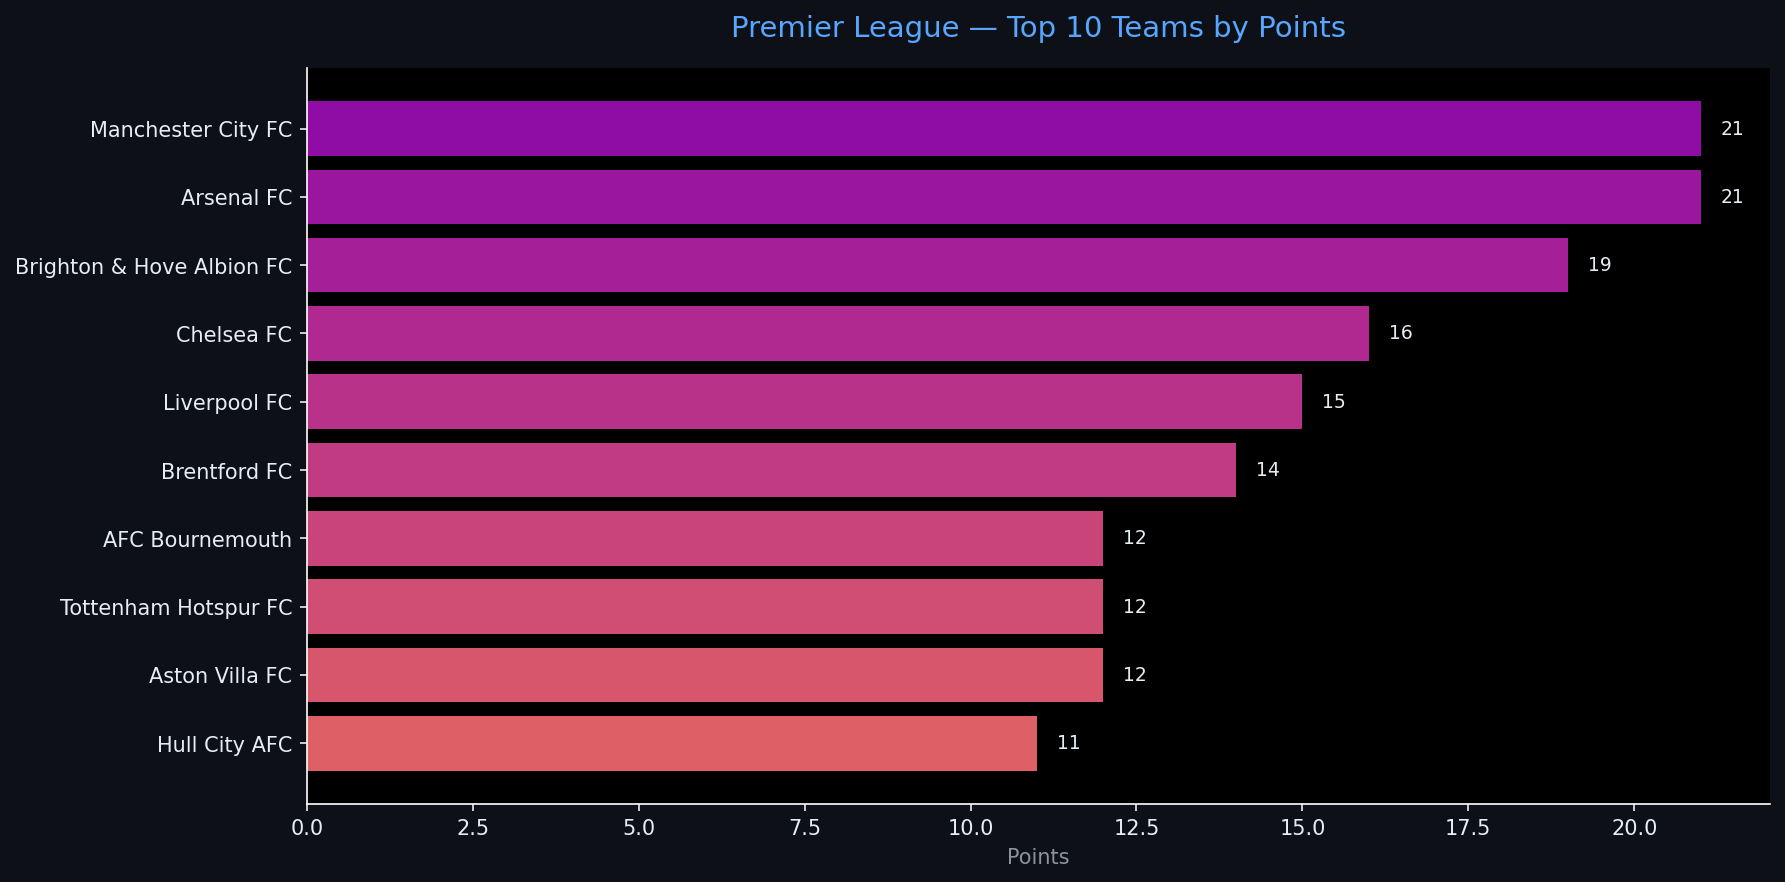
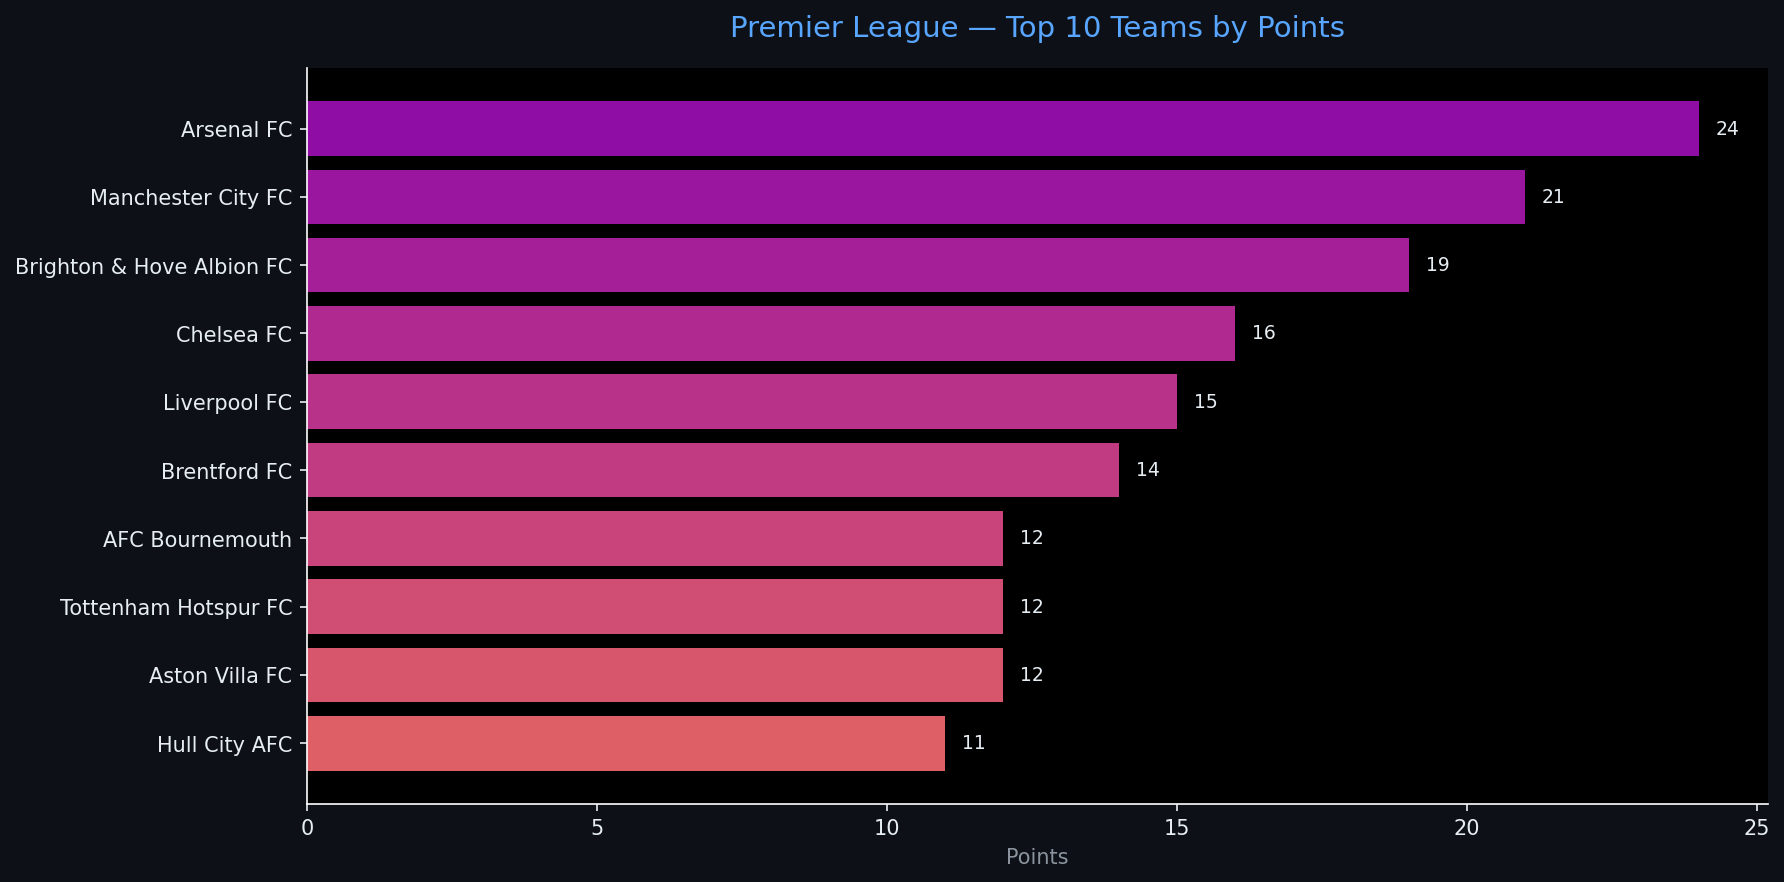
Automated ETL data update: 2026-11-01 17:28

diff --git a/reports/pipeline_report.html b/reports/pipeline_report.html
@@ -4,7 +4,7 @@
 <head>
     <meta charset="UTF-8">
     <meta name="viewport" content="width=device-width, initial-scale=1.0">
-    <title>Sports Data Pipeline Report — 2026-11-01 10:56</title>
+    <title>Sports Data Pipeline Report — 2026-11-01 17:28</title>
     <style>
         body { font-family: 'Segoe UI', sans-serif; background: #0d1117; color: #e6edf3; margin: 0; padding: 2rem; }
         h1   { color: #58a6ff; border-bottom: 1px solid #30363d; padding-bottom: 0.5rem; }
@@ -20,7 +20,7 @@
 </head>
 <body>
     <h1>⚽ Sports Data Pipeline — Automated Report</h1>
-    <p class="meta">Generated: 2026-11-01 10:56 UTC &nbsp;|&nbsp; Sport: <strong>football</strong> &nbsp;|&nbsp; Rows: <strong>20</strong></p>
+    <p class="meta">Generated: 2026-11-01 17:28 UTC &nbsp;|&nbsp; Sport: <strong>football</strong> &nbsp;|&nbsp; Rows: <strong>20</strong></p>
     <span class="badge">Pipeline v1.0.0</span>
     <h2>📊 Data Table</h2>
     <table class="dataframe data-table">
@@ -44,6 +44,21 @@
   <tbody>
     <tr>
       <td>1</td>
+      <td>Arsenal FC</td>
+      <td>9</td>
+      <td>24</td>
+      <td>8</td>
+      <td>0</td>
+      <td>1</td>
+      <td>14</td>
+      <td>5</td>
+      <td>0.889</td>
+      <td>2.667</td>
+      <td>0.887</td>
+      <td>NaN</td>
+    </tr>
+    <tr>
+      <td>2</td>
       <td>Manchester City FC</td>
       <td>9</td>
       <td>21</td>
@@ -55,21 +70,6 @@
       <td>0.778</td>
       <td>2.333</td>
       <td>0.800</td>
-      <td>NaN</td>
-    </tr>
-    <tr>
-      <td>2</td>
-      <td>Arsenal FC</td>
-      <td>8</td>
-      <td>21</td>
-      <td>7</td>
-      <td>0</td>
-      <td>1</td>
-      <td>13</td>
-      <td>5</td>
-      <td>0.875</td>
-      <td>2.625</td>
-      <td>0.871</td>
       <td>NaN</td>
     </tr>
     <tr>
@@ -105,16 +105,16 @@
     <tr>
       <td>5</td>
       <td>Liverpool FC</td>
-      <td>8</td>
+      <td>9</td>
       <td>15</td>
       <td>4</td>
       <td>3</td>
-      <td>1</td>
+      <td>2</td>
       <td>11</td>
-      <td>8</td>
-      <td>0.500</td>
-      <td>1.875</td>
-      <td>0.654</td>
+      <td>9</td>
+      <td>0.444</td>
+      <td>1.667</td>
+      <td>0.599</td>
       <td>NaN</td>
     </tr>
     <tr>
@@ -360,9 +360,9 @@
         
         <tr><td>Total Columns</td><td>29</td></tr>
         
-        <tr><td>Null Values</td><td>92</td></tr>
+        <tr><td>Null Values</td><td>93</td></tr>
         
-        <tr><td>Run Timestamp (UTC)</td><td>2026-11-01T10:56:46.960082</td></tr>
+        <tr><td>Run Timestamp (UTC)</td><td>2026-11-01T17:28:52.924374</td></tr>
         
         <tr><td>ML Features Ready</td><td>False</td></tr>
         
